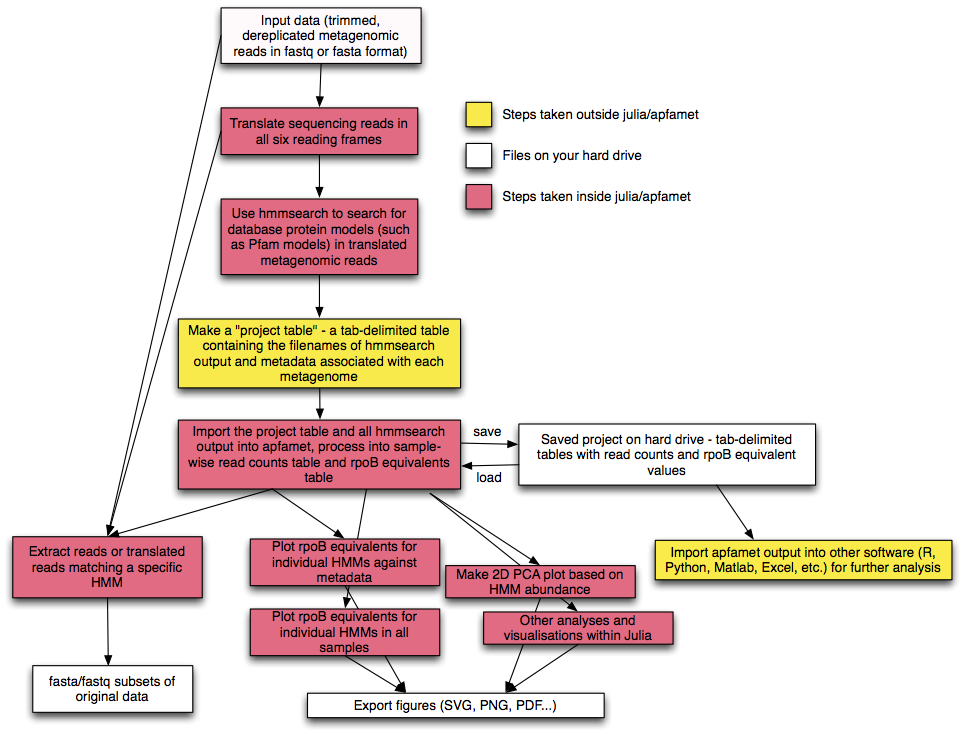
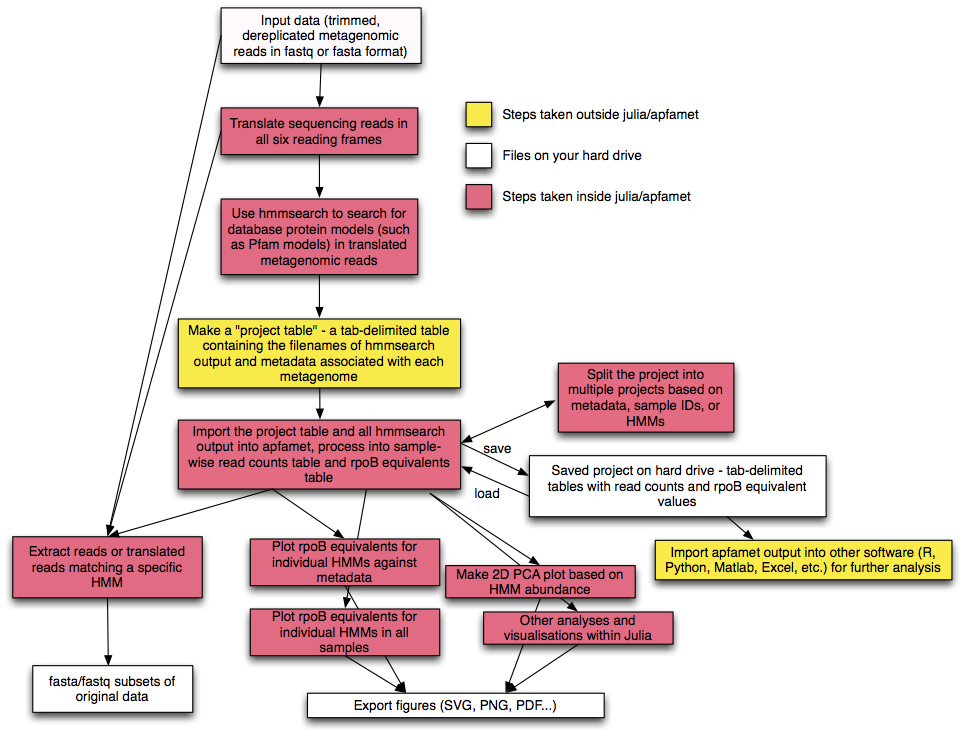
Add subproject capability and project merging capability

Changed region(s): [[0.4673, 0.4796, 0.8723, 0.7193]]

diff --git a/README.md b/README.md
@@ -98,7 +98,7 @@ To load a project that was previously saved use this command, specifying the `ba
 	Gadfly.draw(Gadfly.PDF("pca_plot.pdf",5Gadfly.inch,5Gadfly.inch),pca_plot)
 	```
 ![perform_pca()](https://github.com/ianpgm/apfamet/blob/master/doc/perform_pca_example.png)
-10. You may want to extract reads, or translated nucleotide reads in the relevant translation frame, for a subset of your input data based on the models that it hit. This can be done using the following commands, for nucleotide sequences and amino acid sequences respectively. Be sure to point to the correct file name (original reads file for nt, translated reads for aa):
+11. You may want to extract reads, or translated nucleotide reads in the relevant translation frame, for a subset of your input data based on the models that it hit. This can be done using the following commands, for nucleotide sequences and amino acid sequences respectively. Be sure to point to the correct file name (original reads file for nt, translated reads for aa):
 	```
 	#The functions are:
 	apfamet.extract_nt_seqs(models,project,filenames,output;format="fastq")
@@ -108,6 +108,31 @@ To load a project that was previously saved use this command, specifying the `ba
 	apfamet.extract_nt_seqs(["RNA_pol_Rpb2_1","RNA_pol_Rpb2_2"],myproject,["../../processed_nt/59E-13-B_vsearch_scythe_pear.fastq.assembled.fasta"],"rpoB-1-site59_test_extract.fasta", format="fasta")
 	apfamet.extract_aa_seqs(["RNA_pol_Rpb2_1"],myproject,["../../translated_sequences/59E-13-B_vsearch_scythe_pear.fastq.assembled.fasta.faa"],"rpoB-1-site59_test_extract.faa")
 	```
+12. You may want to split up a project into several sub-projects each containing different samples, or merge projects together. This can be done as follows. To make a sub project with certain samples that you define, use the following function:
+	```
+	apfamet.sub_project_by_sample(project, sample_names)
+	#For example:
+	subproject1 = apfamet.sub_project_by_sample(myproject, ["sample1","sample3"])
+	```
+	To split up a project based on HMM models, you can use the following function. Note - if you make a subproject with models that were completely undetected in one of your samples, that sample will still be included, just recording that nothing's there (all values being 0):
+	```
+	apfamet.sub_project_by_model(project, model_names)
+	#For example:
+	subproject1 = apfamet.sub_project_by_model(myproject, ["RNA_pol_Rpb2_1","RNA_pol_Rpb2_6"])
+	```
+	You may wish to use your metadata to make a subproject - every sample which is above or below a certain threshold, or that you have tagged in a certain way with a keyword, can be put into a subproject. Allowed operators for comparing to metadata include `:.>` (greater than), `:.<` (less than), `:.==` (equal to), `:.!=` (not equal to), `:.>=` (greater than or equal to), `:.<=` (less than or equal to).
+	```
+	apfamet.sub_project_by_metadata(project, parameter, operator, value)
+	#For example, to make a subproject with all samples where salinity is greater than 10, for this project where salinity was measured at the time of sample collection and included in the project table file when new_project was run:
+	subproject1 = apfamet.sub_project_by_metadata(myproject,:Salinity,:.>,10)
+	#You can also use keywords in your project_table to easily make subprojects easy later. Let's say that we had marked certain samples as "marine" under :Type, then we could extract those using:
+	subproject2 = apfamet.sub_project_by_metadata(myproject,:Type,:.==,"marine")
+	```
+	Once you have multiple subprojects you may wish to combine them again. This can be achieved with the following function:
+	```
+	combined_project = apfamet.merge_projects(project1, project2)
+	```
+	
 
 ##How apfamet's normalisation works 
 Apfamet uses the gene encoding RNA polymerase beta subunit (_rpoB_) to normalise counts in metagenomes. _rpoB_ is a universal, single-copy gene in prokaryotes, and thus a good basis for normalisation and comparison between data sets. There are seven pfam models apfamet uses to detect the RpoB protein sequence, these are:
